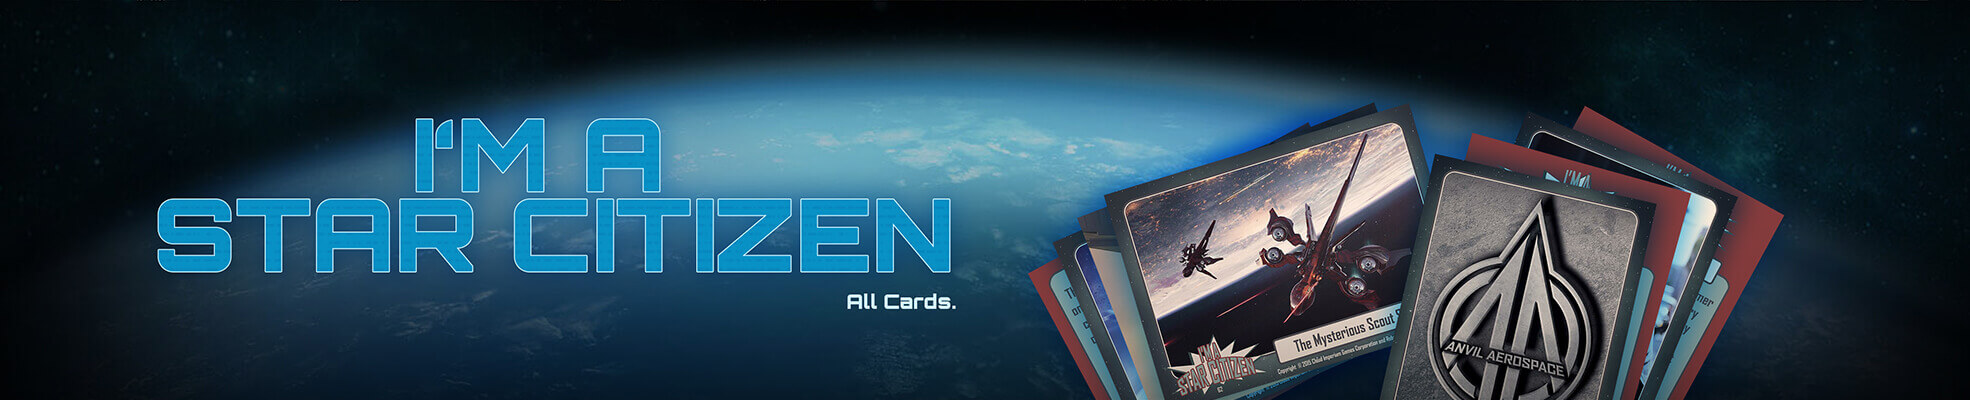
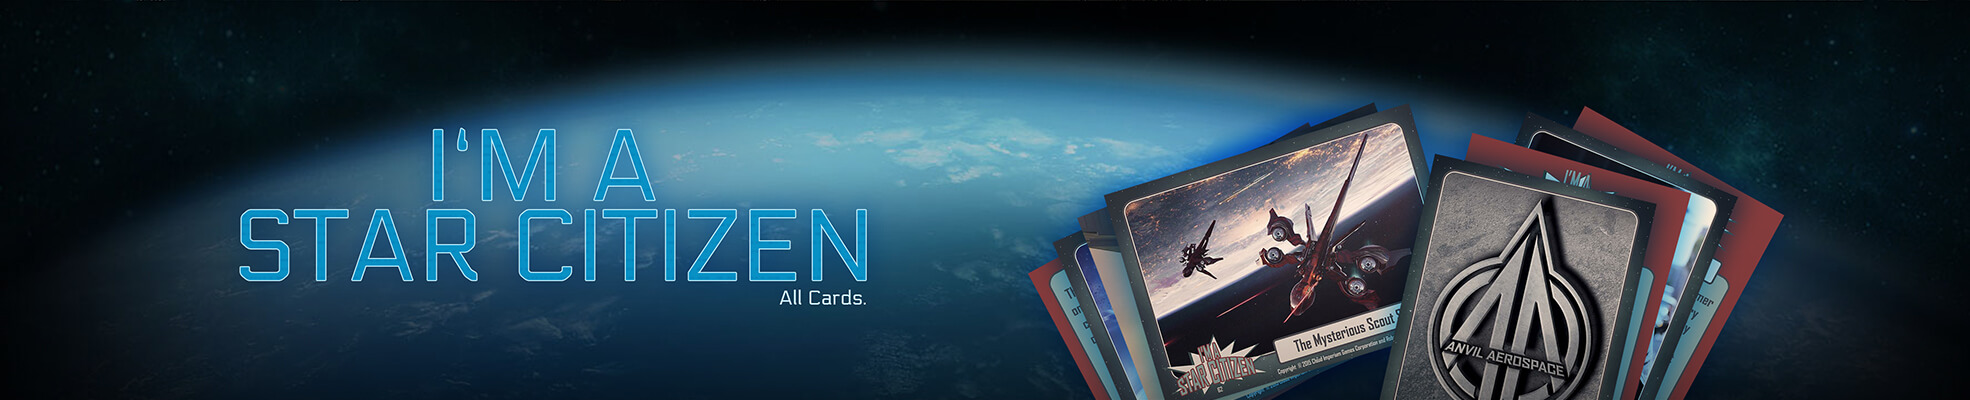
Changed header and navbar font

Changed region(s): [[0.0619, 0.27, 0.4954, 0.78]]

diff --git a/style/css/navstyles.css b/style/css/navstyles.css
@@ -1,4 +1,5 @@
 @import http: //fonts.googleapis.com/css?family=Open+Sans:700;
+@import fonts.googleapis.com/css?family=Electrolize|Orbitron:400,500,700|Share+Tech+Mono;
 #cssmenu {
     left: 0px;
     width: 100%;
@@ -45,9 +46,10 @@
     text-align: center;
     color: #3fc9e1;
     text-decoration: none;
+    margin-top: 4px;
     display: block;
     padding: 15px 25px;
-    font-family: 'Open Sans', sans-serif;
+    font-family: Electrolize, 'Open Sans', sans-serif;
     font-weight: 700;
     text-transform: uppercase;
     font-size: 14px;
